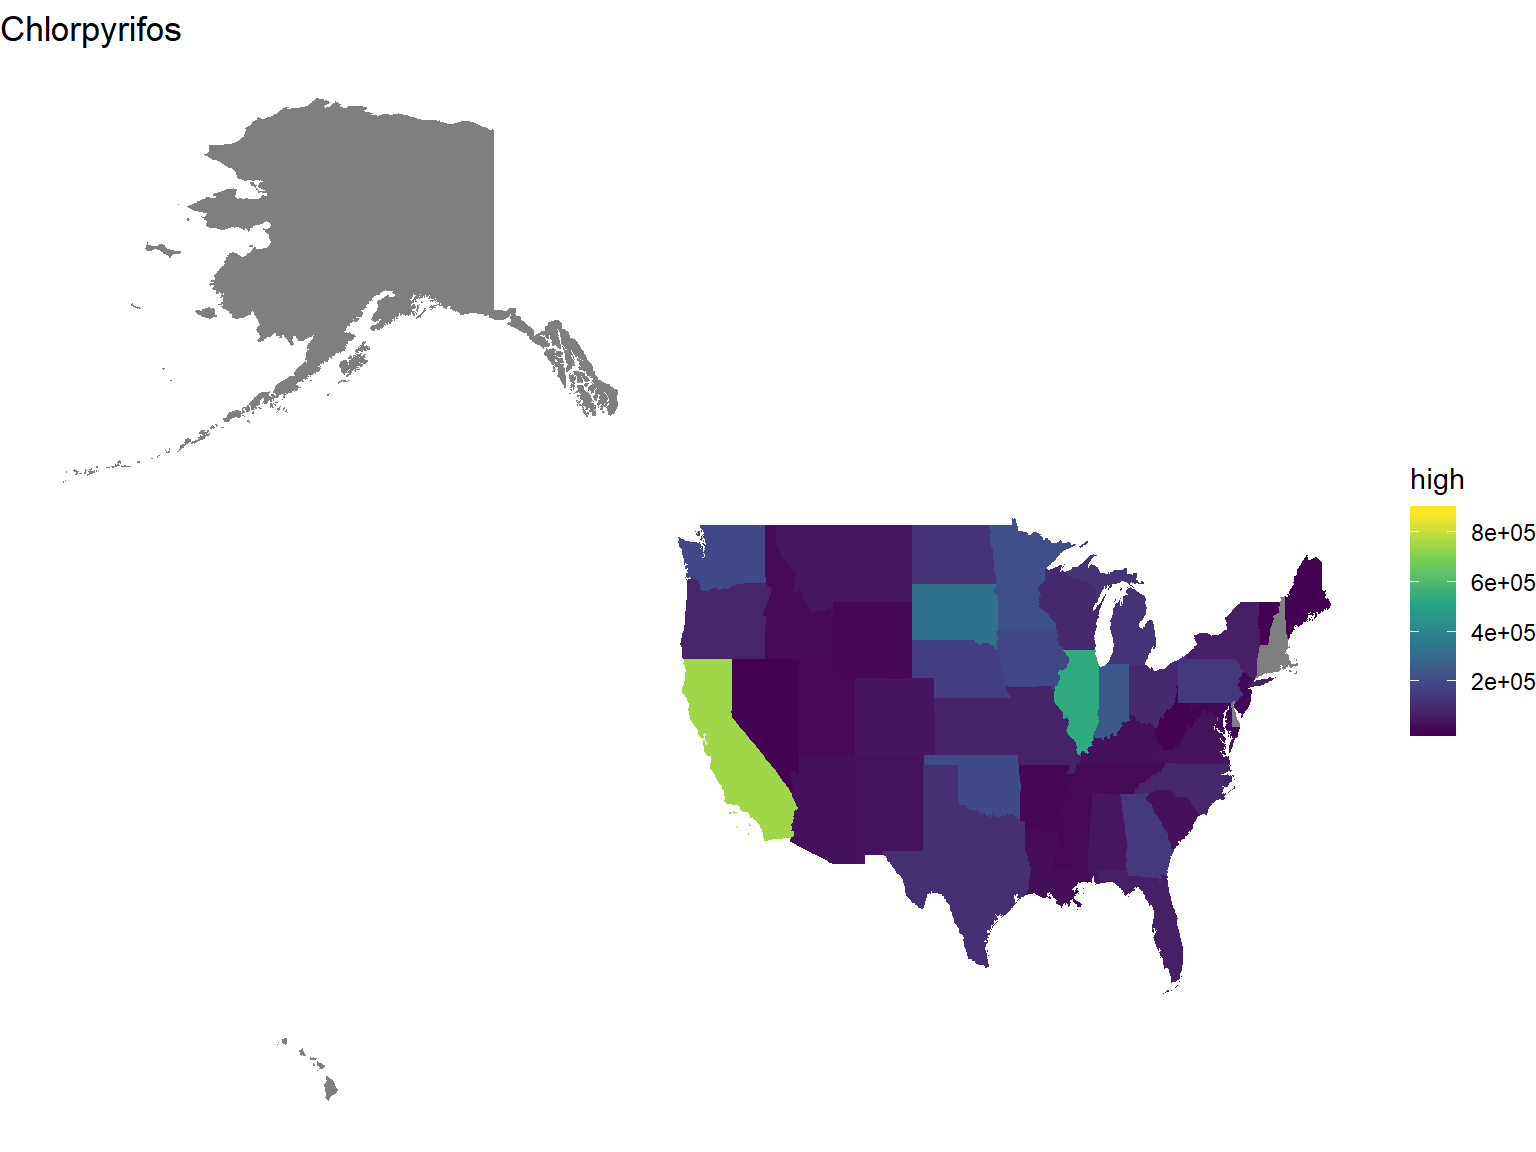
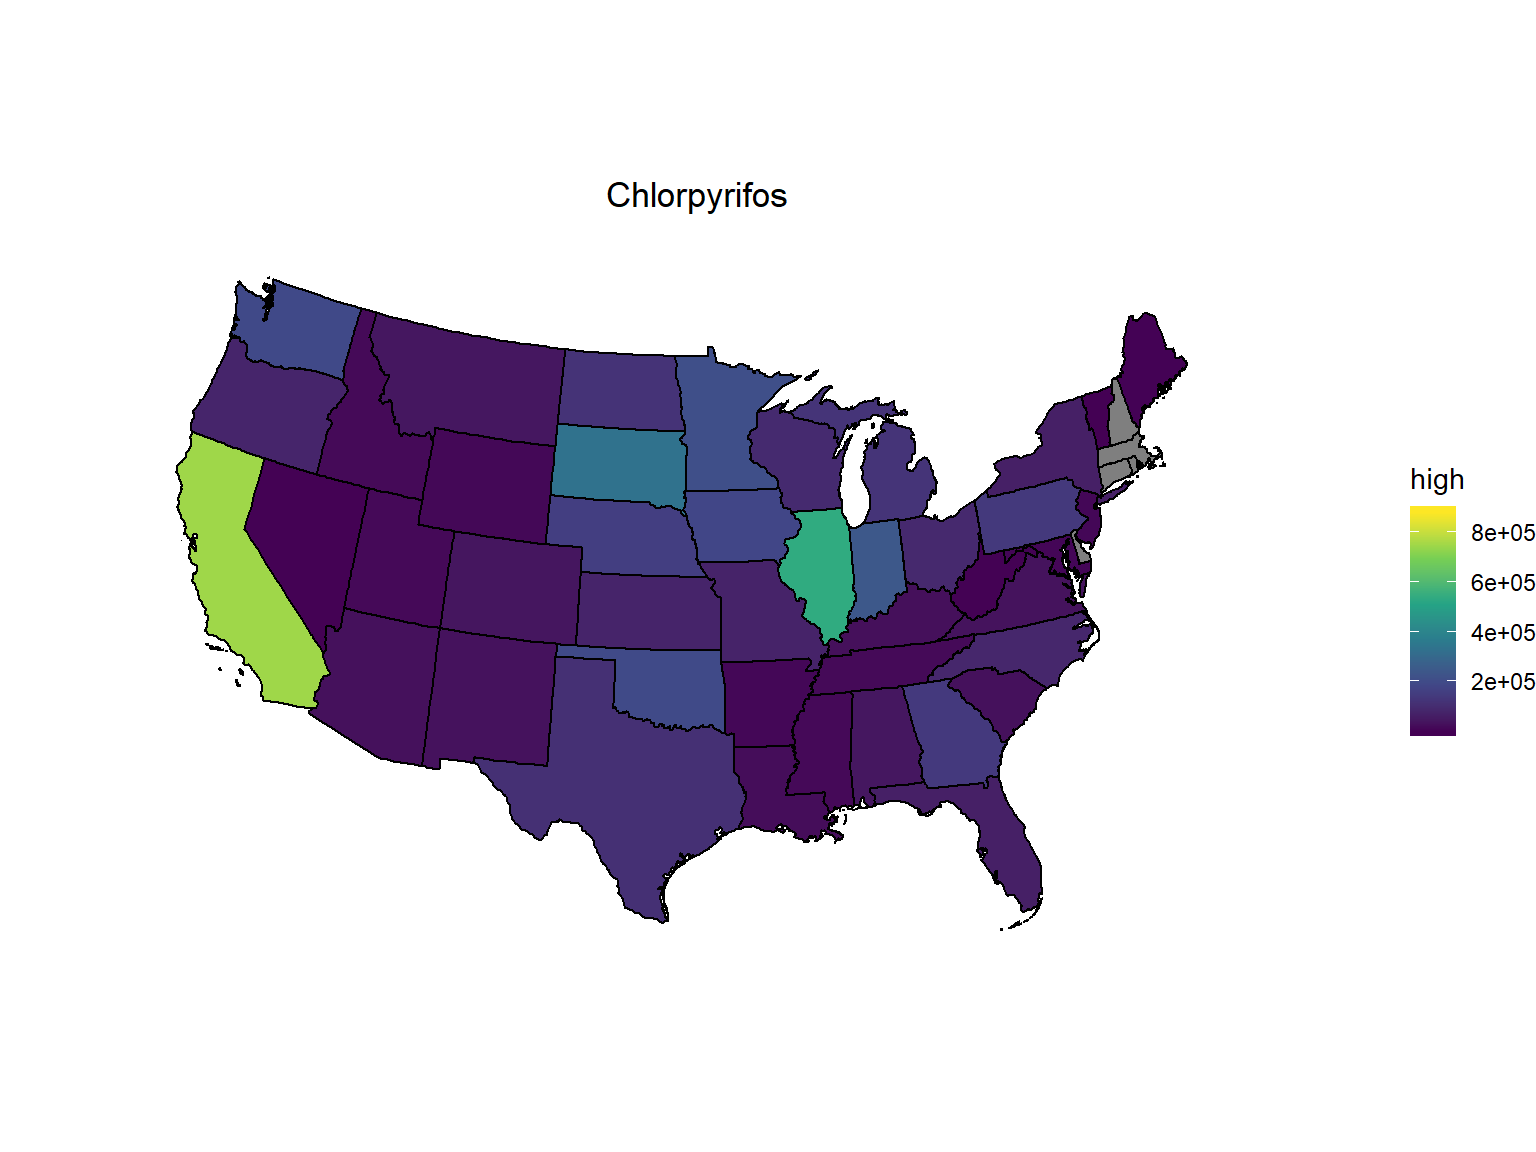
Further modifications to state maps

Changed region(s): [[0.0938, 0.0625, 0.875, 0.8438], [0.375, 0.1562, 0.5312, 0.1875], [0.0, 0.0, 0.125, 0.0625]]

diff --git a/Analysis-and-Visualization.html b/Analysis-and-Visualization.html
@@ -450,6 +450,10 @@ clean_bee_data %&gt;%
 <pre class="r"><code>library(choroplethrMaps)
 data(state.map)
 
+state.map = 
+  state.map %&gt;%
+  filter(region != &quot;alaska&quot;, region != &quot;hawaii&quot;)
+
 merged_state_data = read_csv(&quot;./data/merged_state_data.csv&quot;)</code></pre>
 <pre><code>## Parsed with column specification:
 ## cols(
@@ -471,7 +475,10 @@ merged_state_data = read_csv(&quot;./data/merged_state_data.csv&quot;)</code></p
 
 state_map_data = left_join(state.map, merged_state_data_map, by = &quot;region&quot;)
 
-ggplot(state_map_data, aes(long, lat, group = group, fill = honey_producing_colonies)) + geom_polygon() + theme_void() + labs(title = &quot;Honey Producing Colonies&quot;)</code></pre>
+honey_bee_colony_map = 
+  ggplot(state_map_data, aes(long, lat, group = group, fill = honey_producing_colonies)) + geom_polygon(color = &quot;black&quot;) + theme_void() + labs(title = &quot;Honey Producing Colonies&quot;) + coord_map(projection = &quot;bonne&quot;, lat0 = 50) + theme(plot.title = element_text(hjust = 0.5))
+
+honey_bee_colony_map</code></pre>
 <p><img src="Analysis-and-Visualization_files/figure-html/state%20honey%20production%20colonies-1.png" width="90%" /></p>
 <pre class="r"><code>state_chlorpyrifos =
   merged_state_data %&gt;%
@@ -481,7 +488,10 @@ ggplot(state_map_data, aes(long, lat, group = group, fill = honey_producing_colo
 
 state_map_chlorpyrifos = left_join(state.map, state_chlorpyrifos, by = &quot;region&quot;) 
 
-ggplot(state_map_chlorpyrifos, aes(long, lat, group = group, fill = high)) + geom_polygon() + theme_void() + labs(title = &quot;Chlorpyrifos&quot;)</code></pre>
+chlorpyrifos_map =
+  ggplot(state_map_chlorpyrifos, aes(long, lat, group = group, fill = high)) + geom_polygon(color = &quot;black&quot;) + theme_void() + labs(title = &quot;Chlorpyrifos&quot;) +  coord_map(projection = &quot;bonne&quot;, lat0 = 50) + theme(plot.title = element_text(hjust = 0.5))
+
+chlorpyrifos_map</code></pre>
 <p><img src="Analysis-and-Visualization_files/figure-html/state%20chlorpyrifos%20use-1.png" width="90%" /></p>
 </div>
 
